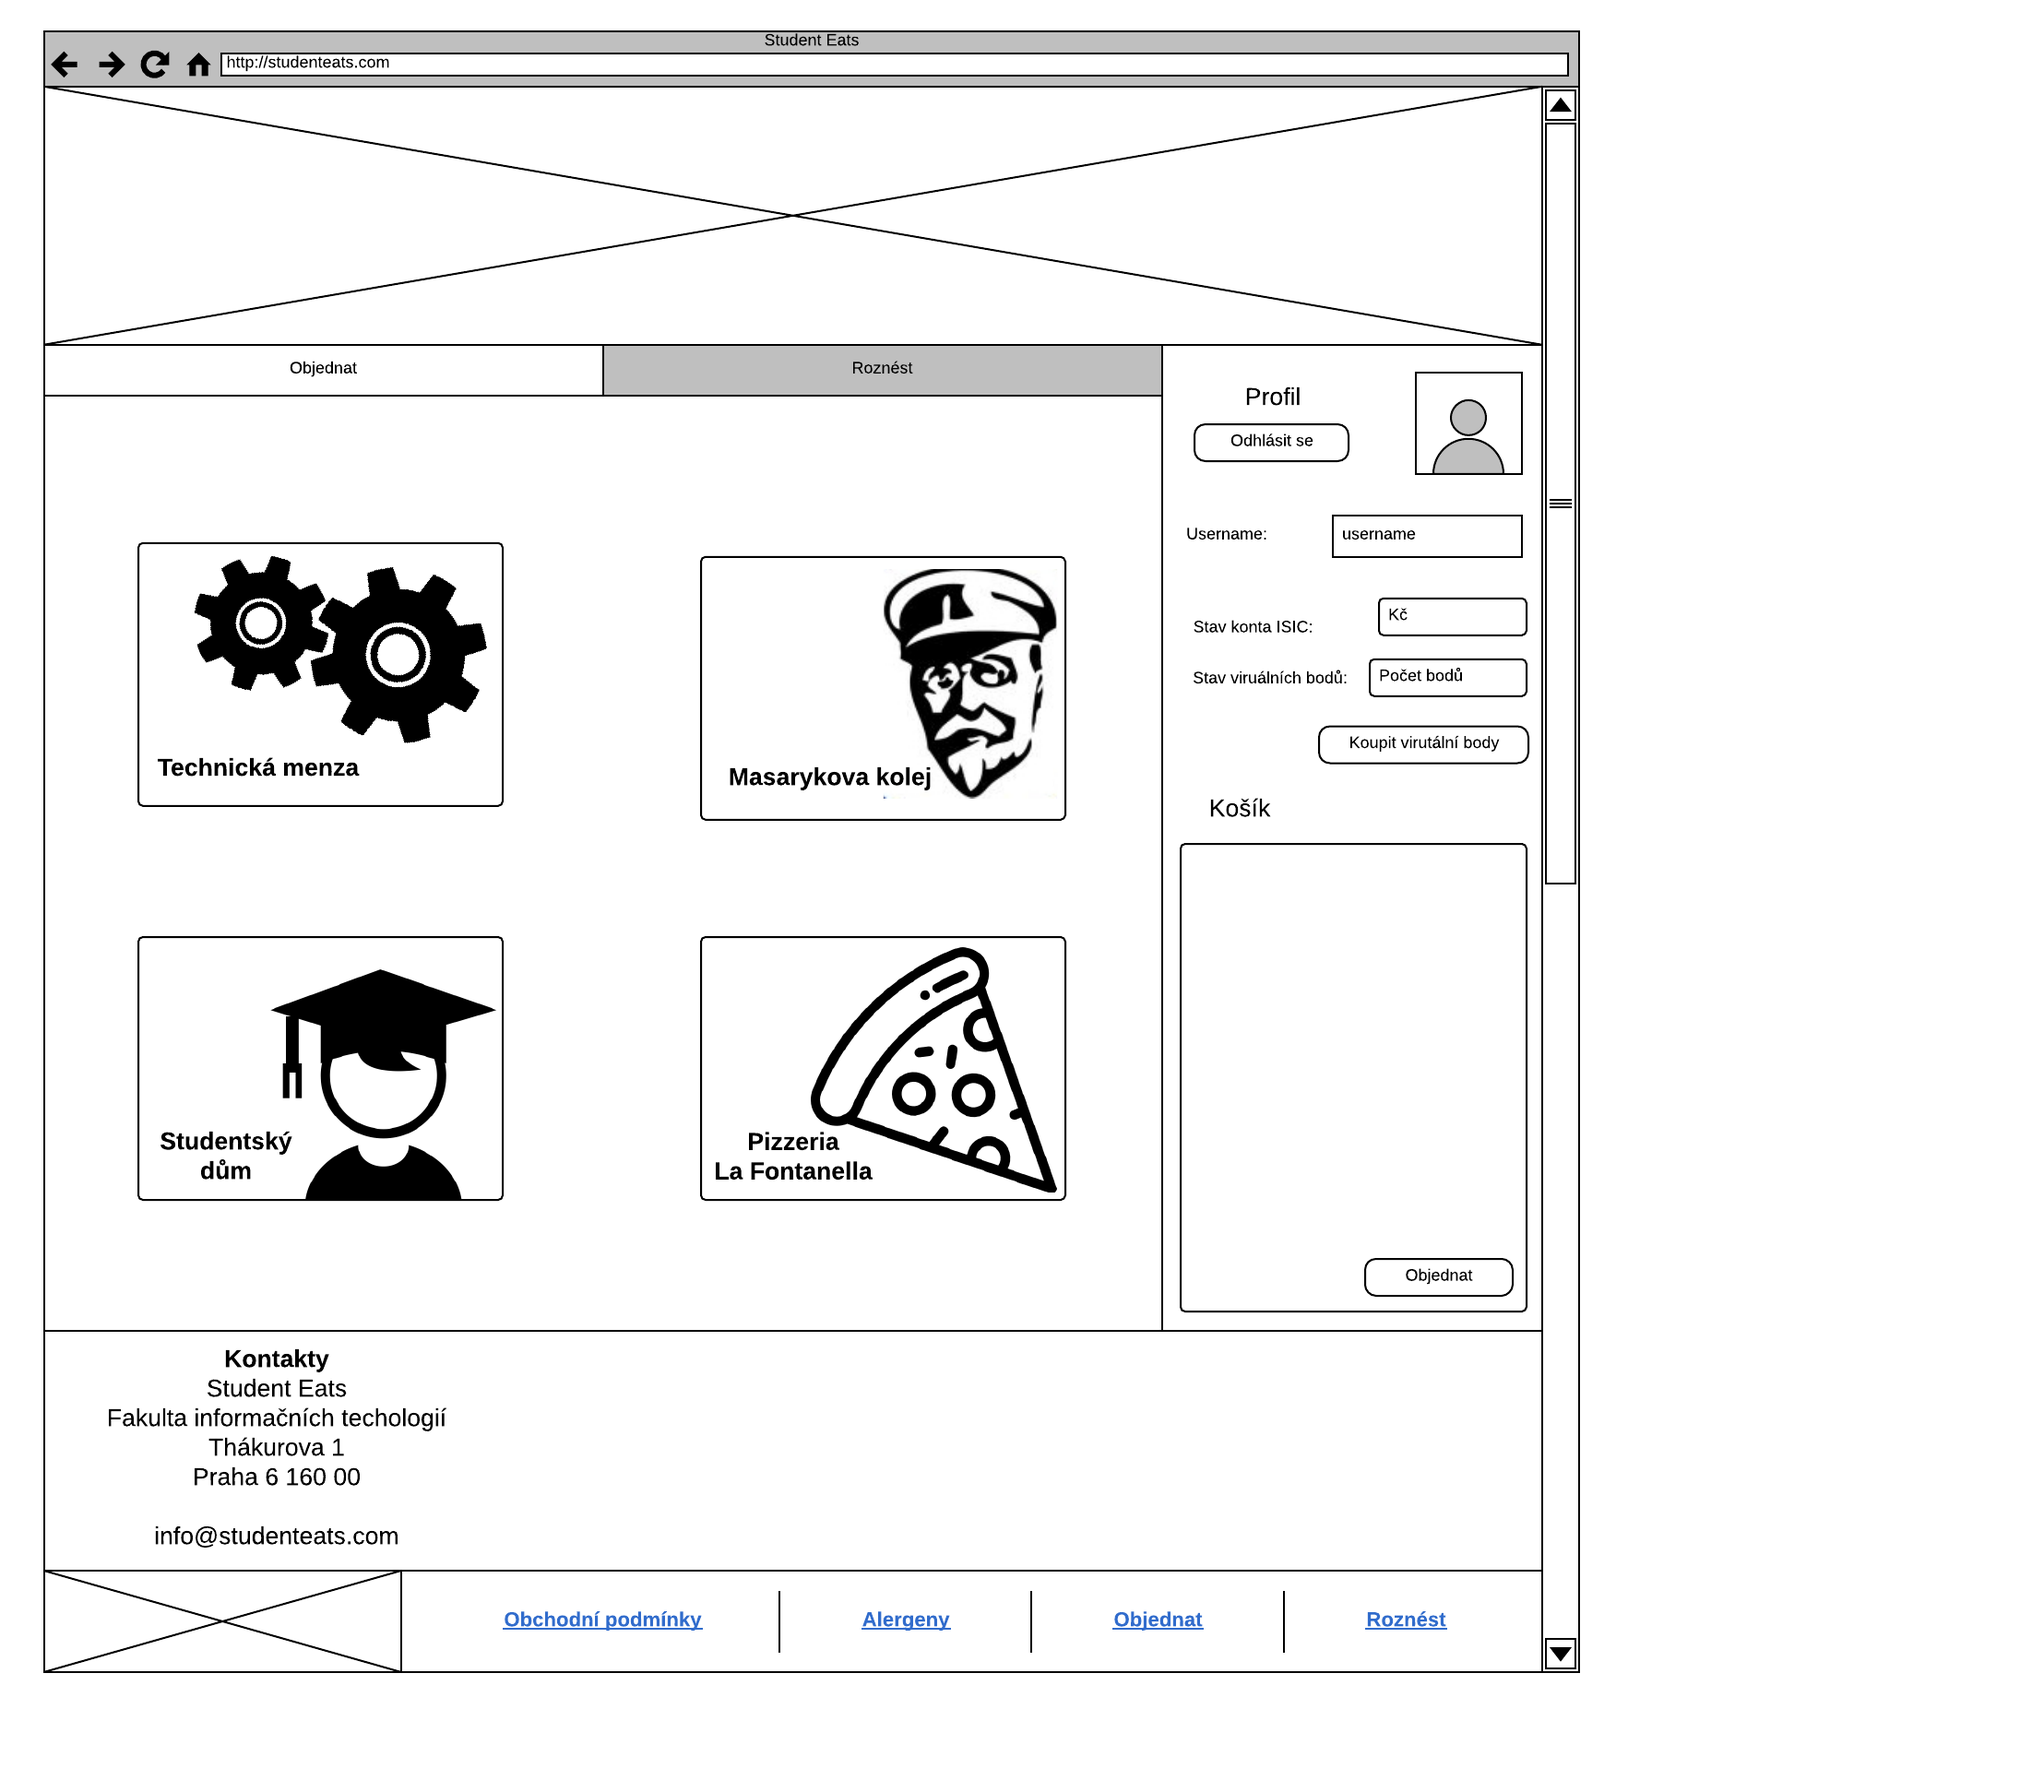
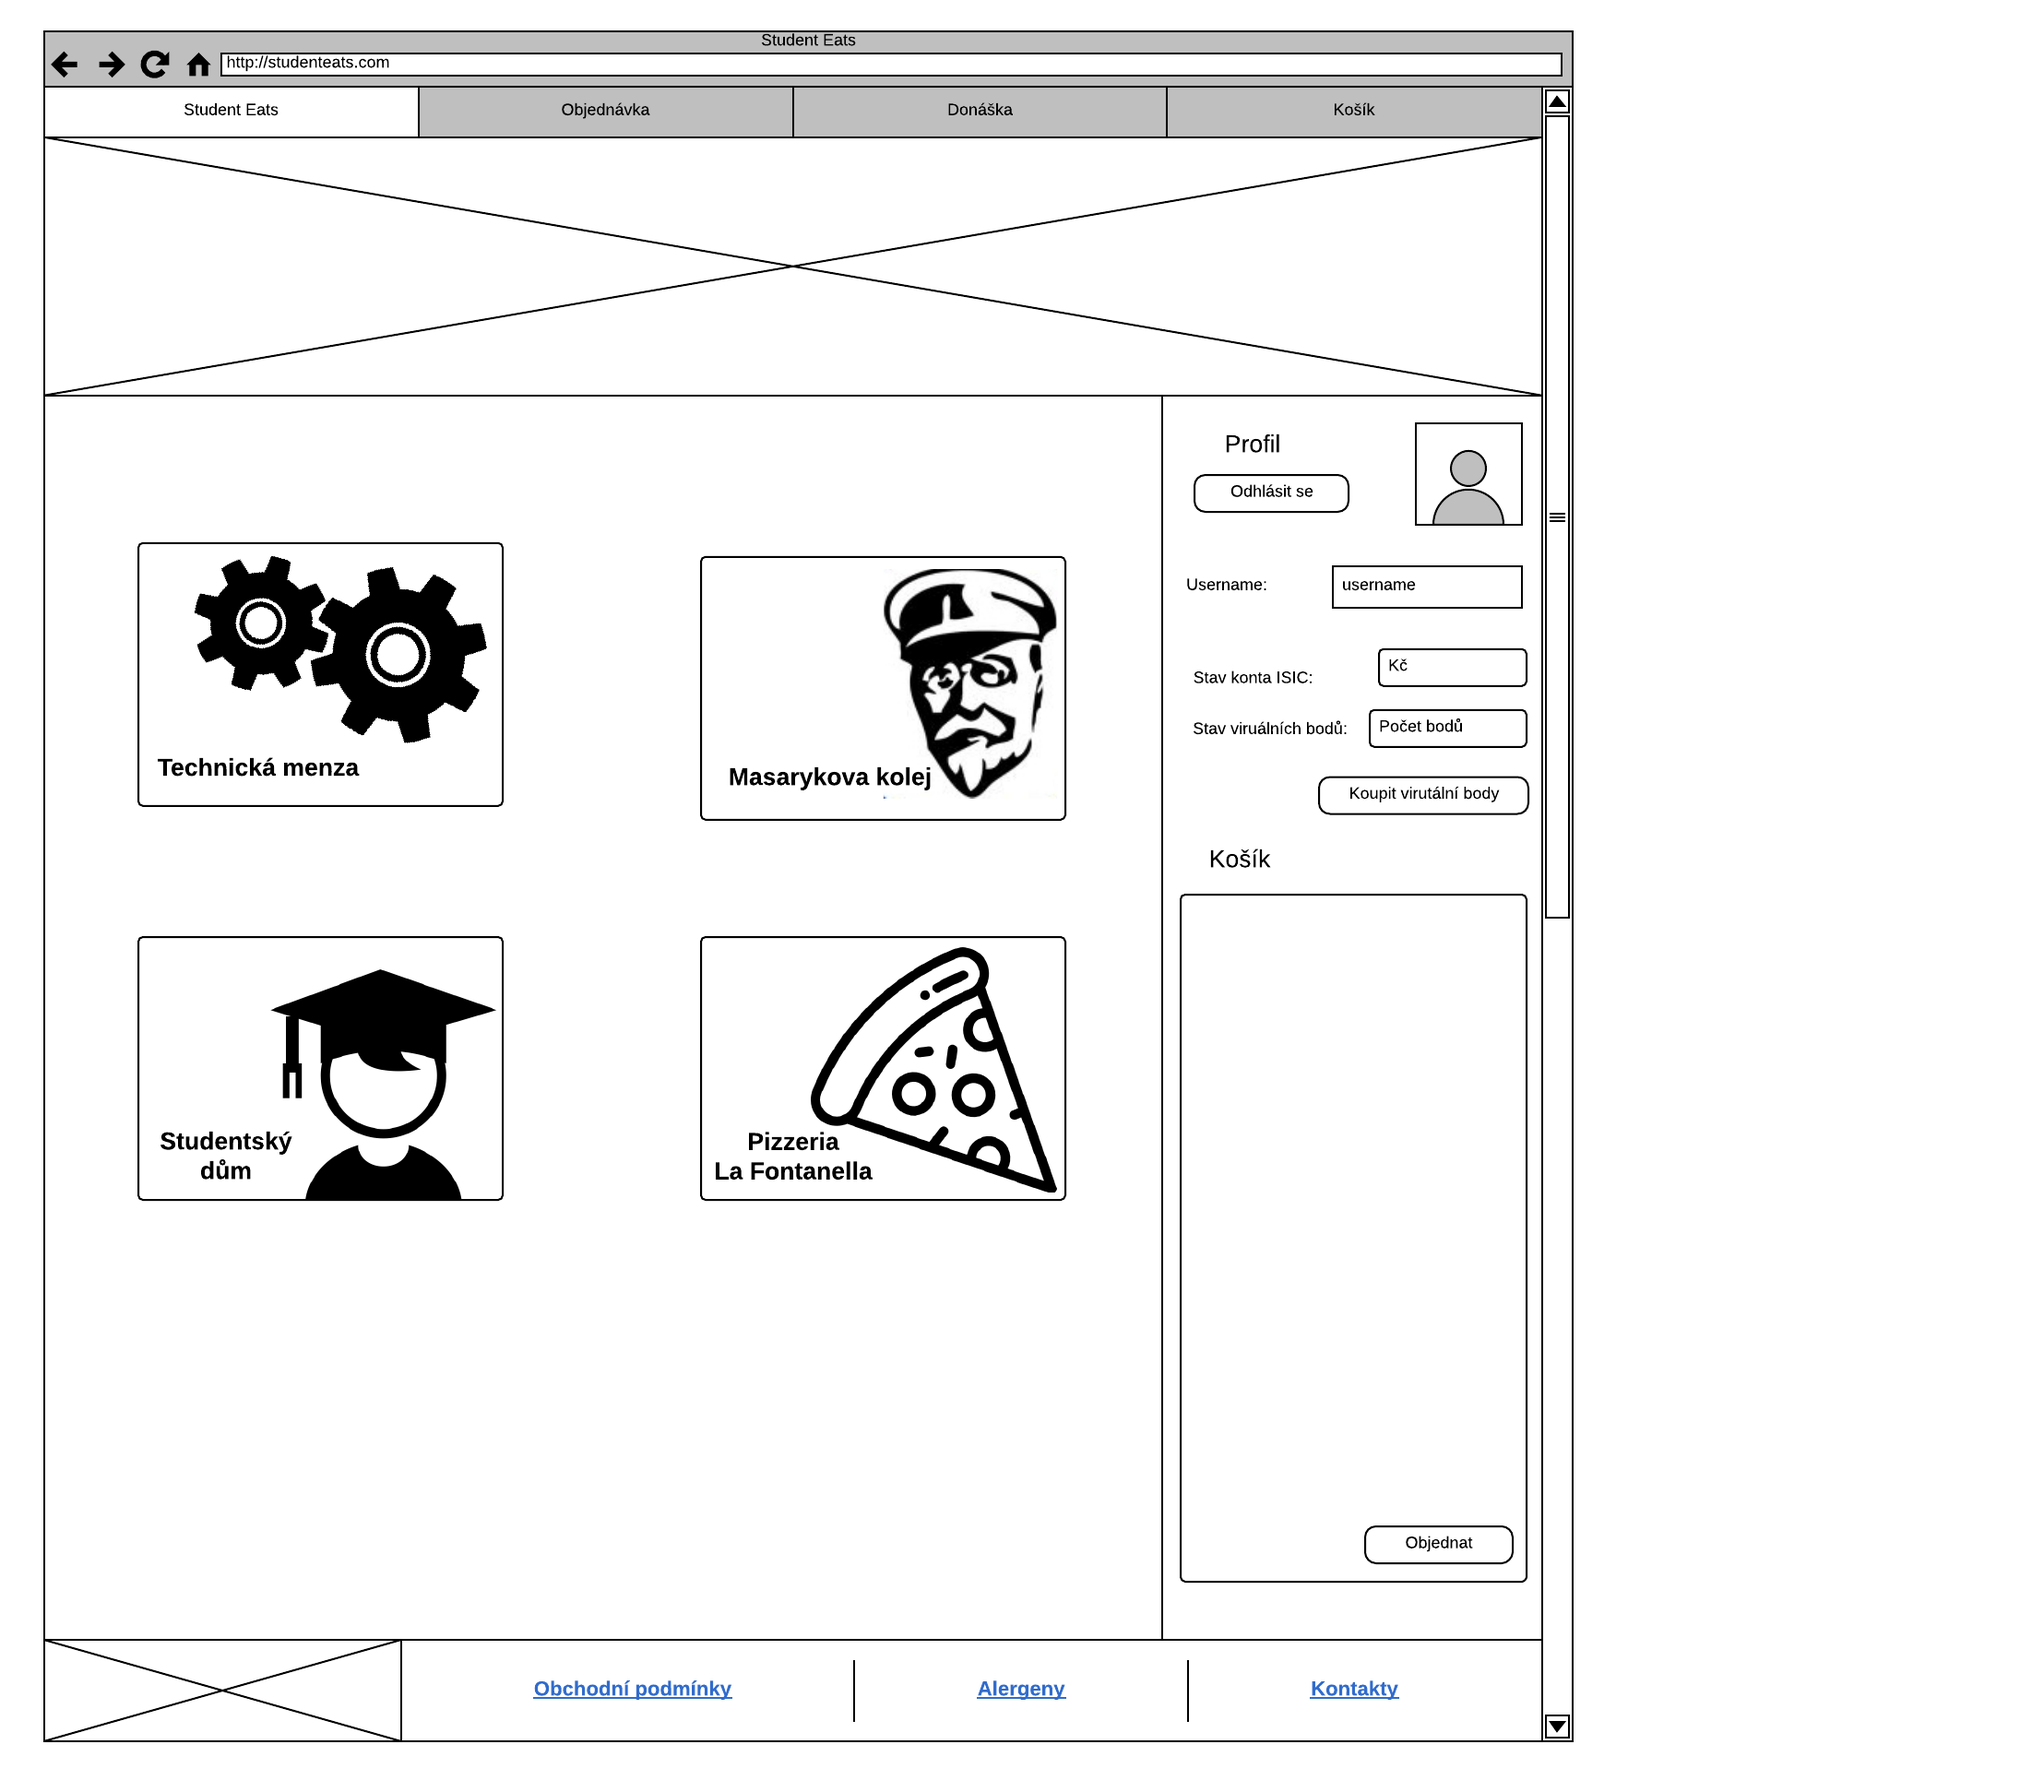
View na /kosik

diff --git a/src/components/Basket.js b/src/components/Basket.js
@@ -1,15 +1,38 @@
 import React, { Component } from 'react';
+import Header from './Header';
+import Navigation from './Navigation';
 import Row from 'react-bootstrap/Row';
 import Col from 'react-bootstrap/Col';
+import RightContainer from "./RightContainer";
+import Footer from './Footer/Footer'
+import Form from "react-bootstrap/Form";
+import Button from "react-bootstrap/Button";
 
-export default class Header extends Component{
+
+/**
+ * class for big basket /kosik
+ */
+export default class Basket extends Component{
 
     constructor(props){
         super(props);
         let foods = localStorage.getItem("cart");
         this.state = {
-            food: (foods)?foods.split(", "):null
+            food: (foods)?foods.split(", "):null,
+            name: "",
+            surname: "",
+            telnumber: "",
+            adress: "",
+            building: "",
+            room:"",
+            note: ""
         };
+    }
+
+    handleChange = event => {
+        this.setState({
+            [event.target.id]: event.target.value
+        });
     }
 
     getFoodInOrder(){
@@ -24,12 +47,75 @@ export default class Header extends Component{
 
         return (
             <div id="Basket">
-            <Row>
-                <Col>
-                    <div className="contright-header"><p>Košík</p></div>
-                    {this.getFoodInOrder()}
-                </Col>
-            </Row>
+                <Navigation/>
+                <Header/>
+                <RightContainer/>
+                <Row>
+                    <Col>
+                        <h4>Rekapitulace vaší objednávky</h4>
+                        {this.getFoodInOrder()}
+                    </Col>
+                    <Col>
+                        <h4>Doručovací údaje</h4>
+                        <Form>
+                            <Form.Group controlId="name">
+                                <Form.Label>Jméno: </Form.Label>
+                                <Form.Control
+                                    value={this.state.name}
+                                    onChange={this.handleChange}
+                                    placeholder="Zadejte své jméno" />
+                            </Form.Group>
+                            <Form.Group controlId="surname">
+                                <Form.Label>Příjmení: </Form.Label>
+                                <Form.Control
+                                    value={this.state.surname}
+                                    onChange={this.handleChange}
+                                    placeholder="Zadejte své příjmení" />
+                            </Form.Group>
+                            <Form.Group controlId="telNumber">
+                                <Form.Label>Telefonní číslo: </Form.Label>
+                                <Form.Control
+                                    value={this.state.telNumber}
+                                    onChange={this.handleChange}
+                                    placeholder="Zadejte své telefonní číslo" />
+                            </Form.Group>
+                            <Form.Group controlId="adress">
+                                <Form.Label>Ulice a číslo popisné:</Form.Label>
+                                <Form.Control
+                                    value={this.state.adress}
+                                    onChange={this.handleChange}
+                                    placeholder="Zadejte ulici a číslo popisné" />
+                            </Form.Group>
+                            <Form.Group controlId="building">
+                                <Form.Label>Budova:</Form.Label>
+                                <Form.Control
+                                    value={this.state.building}
+                                    onChange={this.handleChange}
+                                    placeholder="Zadejte budovu" />
+                            </Form.Group>
+                            <Form.Group controlId="room">
+                                <Form.Label>Místnost:</Form.Label>
+                                <Form.Control
+                                    value={this.state.room}
+                                    onChange={this.handleChange}
+                                    placeholder="Specifikujte místnost v budově" />
+                            </Form.Group>
+                            <Form.Group controlId="note">
+                                <Form.Label>Poznámka:</Form.Label>
+                                <Form.Control
+                                    value={this.state.room}
+                                    onChange={this.handleChange}
+                                    placeholder="Zadejte poznámku k objednávce" />
+                            </Form.Group>
+                            <Button
+                                //href='/'
+                                variant="danger"
+                                type="submit">
+                                Objednat</Button>
+                        </Form>
+                    </Col>
+                </Row>
+                <Footer/>
             </div>
         );
     }

diff --git a/src/index.js b/src/index.js
@@ -17,6 +17,7 @@ import MenuMenza from "./views/MenuMenza";
 import ErrorURL from './views/ErrorURL.js'
 import Donaska from "./views/Donaska";
 import Registration from "./components/Registration"
+import Basket from './components/Basket'
 
 ReactDOM.render(
     <BrowserRouter>
@@ -27,7 +28,7 @@ ReactDOM.render(
             <Route path="/studentsky_dum" component={MenuMenza} />
             <Route path="/pizzeria_LaFontanella" component={MenuMenza} />
             <Route path="/donaska" component={Donaska}/>
-            <Route path="/kosik" component={Donaska}/>
+            <Route path="/kosik" component={Basket}/>
             <Route path="/registrace" component={Registration}/>
             <Route component={ErrorURL} />
         </Switch>

diff --git a/src/components/MenuContainer.js b/src/components/MenuContainer.js
@@ -45,7 +45,7 @@ export default class MenuContainer extends Component{
                             <li className="list-meal">
                                 <Button variant="danger"
                                         type="button"
-                                        disabled={localStorage.getItem("userId") == null || localStorage.getItem("userId") === 'undefined'}
+                                        //disabled={localStorage.getItem("userId") == null || localStorage.getItem("userId") === 'undefined'}
                                         key={item.id}
                                         onClick={() => handler(item.id)}
                                         >+</Button>

diff --git a/src/components/Profile.js b/src/components/Profile.js
@@ -63,7 +63,7 @@ export default class Profile extends Component {
                 <Row>
                     {!this.state.dataSet && this.getData()}
                     <Col>
-                        <div className="contright-header"><p>Profil2</p>
+                        <div className="contright-header"><p>Profil</p>
                             <Button
                                 type="button"
                                 onClick={this.handleSubmit}
@@ -72,6 +72,7 @@ export default class Profile extends Component {
                         </div>
                     </Col>
                 </Row>
+                <p>Košík</p>
             </div>
         );
     }

diff --git a/src/components/RightContainer.js b/src/components/RightContainer.js
@@ -40,7 +40,6 @@ export default class RightContainer extends Component{
             return (
                 <Container id="ContainerRight">
                     <Profile logoutHandler={this.logout} />
-                    <Basket />
                 </Container>
             );
         }

diff --git a/src/index.css b/src/index.css
@@ -29,10 +29,6 @@ code {
   background: #dde9ff;
 }
 
-#Basket{
-  background: #d5b2ff;
-}
-
 #ContainerCenter{
   background: #e1e3e0;
   padding: 0px;
